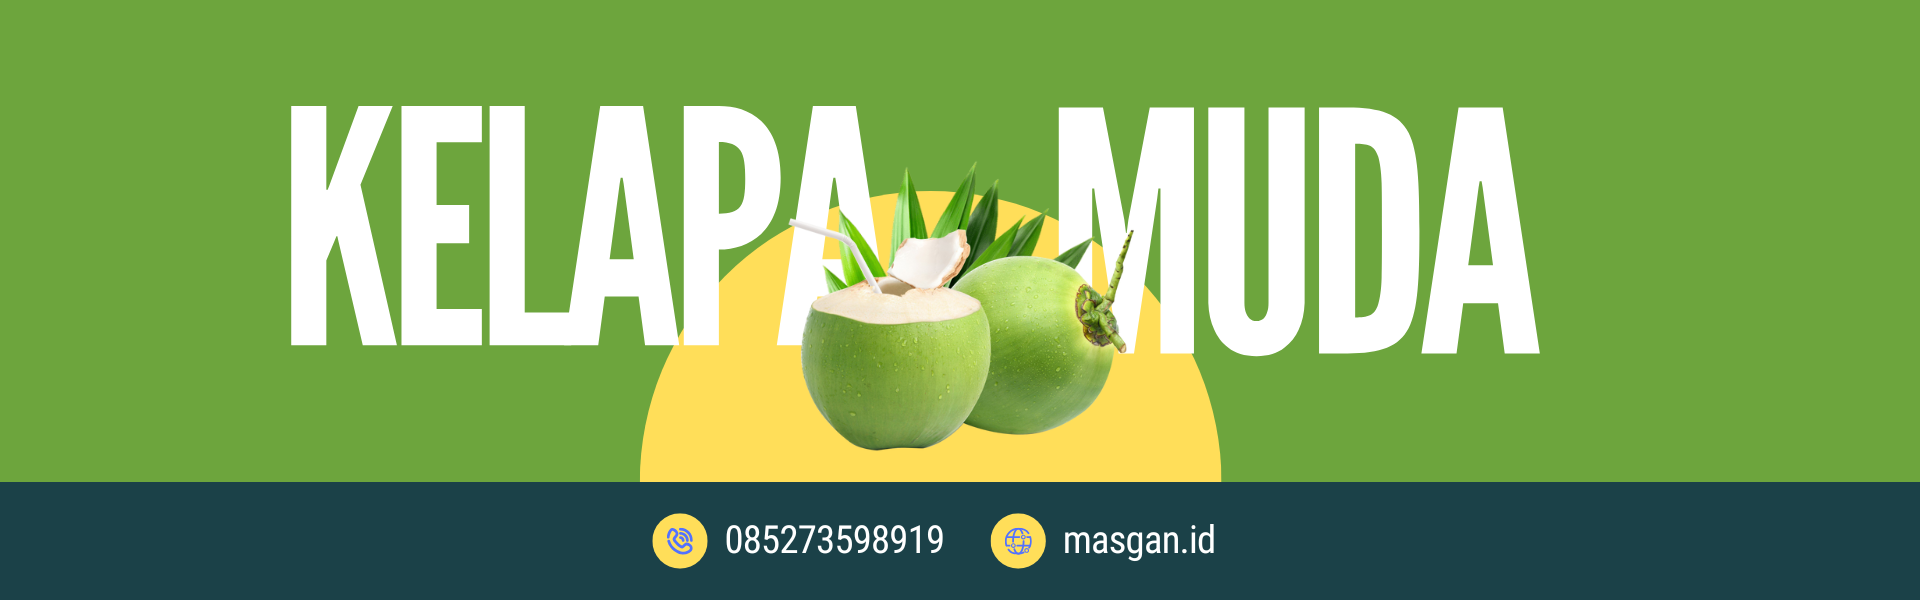
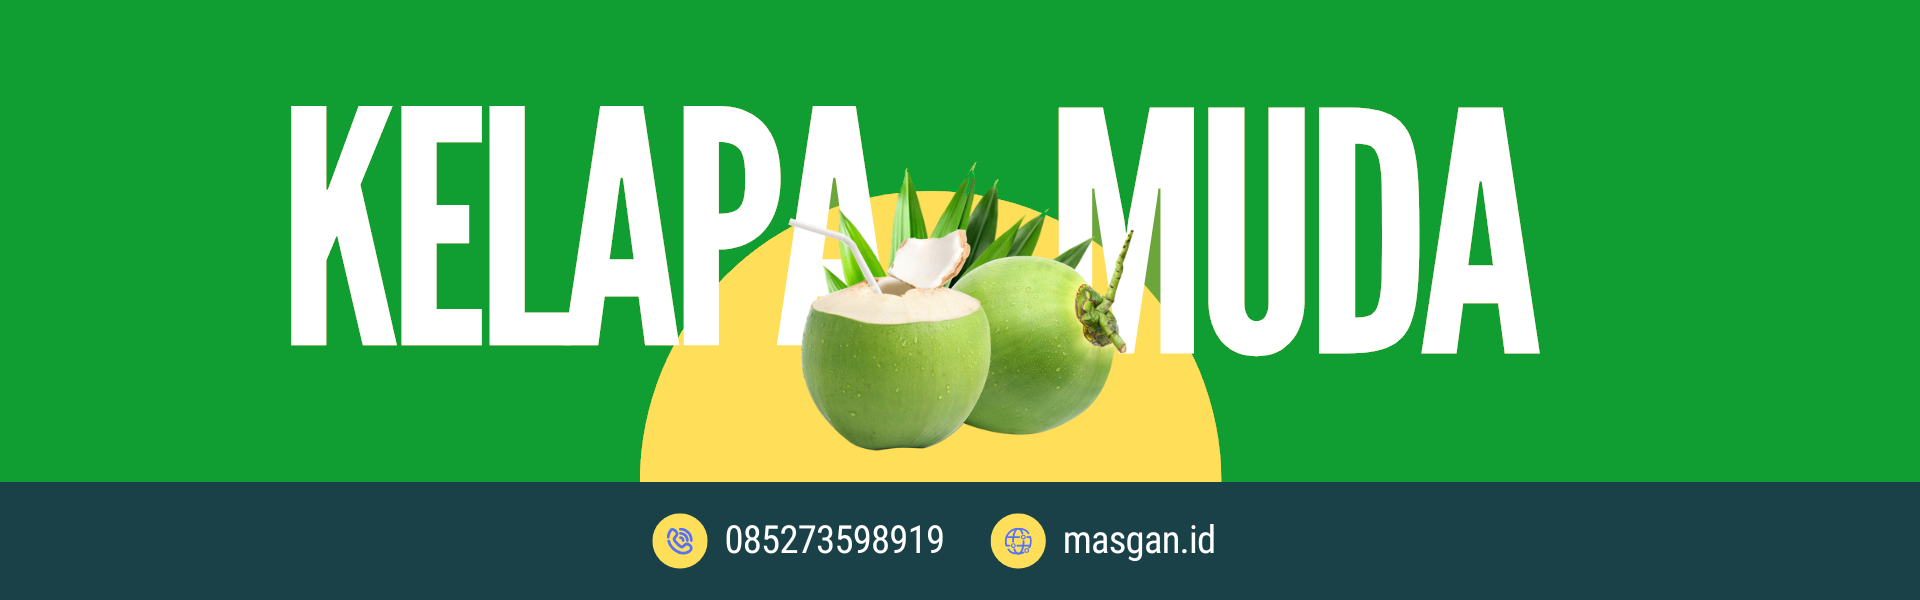
Update primary color

diff --git a/index.html b/index.html
@@ -12,7 +12,7 @@
             theme: {
                 extend: {
                     colors: {
-                        'masgan-green': '#6da53d',
+                        'masgan-green': '#109E33',
                         'masgan-dark-blue': '#1b4148',
                         'masgan-light-blue': '#307281',
                     }
